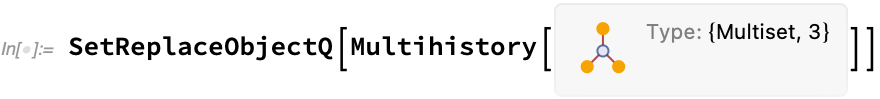
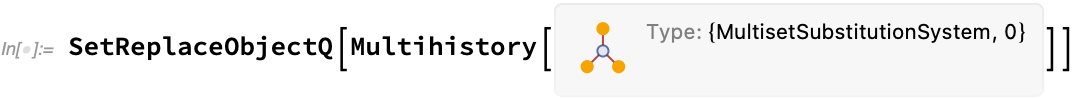
Update type system docs.

Changed region(s): [[0.0, 0.2121, 1.0, 0.7576]]

diff --git a/Documentation/TypeSystem/README.md b/Documentation/TypeSystem/README.md
@@ -3,17 +3,15 @@
 The basis of *SetReplace* is the type system used for [`Multihistory`](Multihistory.md) objects describing evolutions of
 various computational systems.
 
-We have just started working on this new system as part of *SetReplace 0.4 Yellowstone*, and no specific types have been
-implemented yet.
-
 `Multihistory` objects can be created with functions such as
 [`GenerateMultihistory`](/Documentation/SymbolsAndFunctions/Generators/GenerateMultihistory.md).
 
-These functions will be able to take various computational systems as an argument, such as `MultisetSubstitutionSystem`,
-`HypergraphSubstitutionSystem` and `StringSubstitutionSystem`.
+These functions take various [computational systems](/Documentation/SymbolsAndFunctions/Systems/README.md) such as
+[`MultisetSubstitutionSystem`](/Documentation/SymbolsAndFunctions/Systems/MultisetSubstitutionSystem.md) as an argument.
 
 We will also have [properties]($SetReplaceProperties.md) implemented for some of these objects, e.g., `TokenEventGraph`.
-These properties can transparently convert objects to the [type]($SetReplaceTypes.md) required to evaluate them.
+These properties can transparently convert objects to the [type](/Documentation/SymbolsAndFunctions/Types/README.md)
+required to evaluate them.
 
 Most of the time, it is sufficient to rely on these automatic conversions. However, sometimes it might be useful to
 convert an object to a different type manually for persistence or optimization, in which case one can use the

diff --git a/Documentation/TypeSystem/Multihistory.md b/Documentation/TypeSystem/Multihistory.md
@@ -2,7 +2,21 @@
 
 # Multihistory
 
-**`Multihistory`** represents an evaluation history of a computational system.
+**`Multihistory`** is a head used for [types](/Documentation/SymbolsAndFunctions/Types/README.md) representing an
+evaluation history of a computational system.
 
-It is part of the new *SetReplace* [type system](README.md) which we are actively working on. We have not implemented
-any systems or properties yet, so it's not currently possible to create or use any `Multihistory` objects.
+For example, for
+a [`MultisetSubstitutionSystem`](/Documentation/SymbolsAndFunctions/Systems/MultisetSubstitutionSystem.md),
+
+```wl
+In[] := GenerateMultihistory[MultisetSubstitutionSystem[{a_, b_} :> {a + b}],
+                             {},
+                             None,
+                             {"InputCount", "SortedInputExpressions", "UnsortedInputExpressions", "RuleIndex"},
+                             {"MaxEvents" -> 10}] @ {1, 2, 3}
+```
+
+<img src="/Documentation/Images/MultisetMultihistory.png" width="472.2">
+
+You will be able to use `properties`[$SetReplaceProperties.md] to extract information about multihistories, but we have
+not implemented any properties yet.

diff --git a/Documentation/TypeSystem/SetReplaceTypeConvert.md b/Documentation/TypeSystem/SetReplaceTypeConvert.md
@@ -2,12 +2,15 @@
 
 # SetReplaceTypeConvert
 
-**`SetReplaceTypeConvert`** allows one to convert one type (of, e.g., [`Multihistory`](Multihistory.md)) into another:
+**`SetReplaceTypeConvert`** allows one to convert one [type](/Documentation/SymbolsAndFunctions/Types/README.md) (of,
+e.g., [`Multihistory`](Multihistory.md)) into another:
 
 ```wl
 SetReplaceTypeConvert[newType][object]
 ```
 
-It can be used for optimization or to explicitly serialize an object that is, e.g., attached to a C++ instance.
+For example, one can convert a [`MultisetSubstitutionSystem`](/Documentation/SymbolsAndFunctions/Systems/README.md)
+[multihistory](Multihistory.md) to a legacy
+[`WolframModelEvolutionObject`](/Documentation/SymbolsAndFunctions/WolframModelAndWolframModelEvolutionObject/WolframModelAndWolframModelEvolutionObject.md):
 
-However, we have not implemented any types yet, so it's impossible to use this yet.
+<img src="/Documentation/Images/MultihistoryToWolframModelEvolutionObject.png" width="575.4">

diff --git a/Documentation/TypeSystem/$SetReplaceTypeGraph.md b/Documentation/TypeSystem/$SetReplaceTypeGraph.md
@@ -3,14 +3,14 @@
 # $SetReplaceTypeGraph
 
 **`$SetReplaceTypeGraph`** gives the [`Graph`](https://reference.wolfram.com/language/ref/Graph.html) showing
-[types]($SetReplaceTypes.md) and [properties]($SetReplaceProperties.md) defined in *SetReplace* (including internal
-ones) and possible computation paths between them:
+[types](/Documentation/SymbolsAndFunctions/Types/README.md) and [properties]($SetReplaceProperties.md) defined in
+*SetReplace* (including internal ones) and possible computation paths between them:
 
 ```wl
 In[] := $SetReplaceTypeGraph
 ```
 
-<img src="/Documentation/Images/$SetReplaceTypeGraph.png" width="478.2">
+<img src="/Documentation/Images/$SetReplaceTypeGraph.png" width="660.6">
 
 It is a [`Graph`](https://reference.wolfram.com/language/ref/Graph.html) representation of a directed hypergraph with
 types and properties as vertices and implementations of translations and properties as edges.

diff --git a/Documentation/TypeSystem/SetReplaceObjectType.md b/Documentation/TypeSystem/SetReplaceObjectType.md
@@ -2,10 +2,11 @@
 
 # SetReplaceObjectType
 
-**`SetReplaceObjectType`** yields the type of an object. Note that the type specification usually contains its version:
+**`SetReplaceObjectType`** yields [the type](/Documentation/SymbolsAndFunctions/Types/README.md) of an object. Note that
+the type specification usually contains its version:
 
-<img src="/Documentation/Images/SetReplaceObjectTypeOfMultihistory.png" width="555.6">
+<img src="/Documentation/Images/SetReplaceObjectTypeOfMultihistory.png" width="673.2">
 
 ```wl
-Out[] = {"Multiset", 3}
+Out[] = {MultisetSubstitutionSystem, 0}
 ```

diff --git a/Documentation/TypeSystem/SetReplaceObjectQ.md b/Documentation/TypeSystem/SetReplaceObjectQ.md
@@ -5,7 +5,7 @@
 **`SetReplaceObjectQ`** yields [`True`](https://reference.wolfram.com/language/ref/True.html) for *SetReplace* objects
 and [`False`](https://reference.wolfram.com/language/ref/False.html) otherwise:
 
-<img src="/Documentation/Images/SetReplaceObjectQOfMultihistory.png" width="528.0">
+<img src="/Documentation/Images/SetReplaceObjectQOfMultihistory.png" width="645.6">
 
 ```wl
 Out[] = True

diff --git a/Documentation/TypeSystem/SetReplaceType.md b/Documentation/TypeSystem/SetReplaceType.md
@@ -2,6 +2,7 @@
 
 # SetReplaceType
 
-**`SetReplaceType`** represents a *SetReplace* type. It has the type specification as its single argument.
+**`SetReplaceType`** represents a *SetReplace* [type](/Documentation/SymbolsAndFunctions/Types/README.md). It has the
+type specification as its single argument.
 
 It is used in vertex names of [`$SetReplaceTypeGraph`]($SetReplaceTypeGraph.md).

diff --git a/Documentation/TypeSystem/$SetReplaceTypes.md b/Documentation/TypeSystem/$SetReplaceTypes.md
@@ -6,5 +6,5 @@
 
 ```wl
 In[] := $SetReplaceTypes
-Out[] = {}
+Out[] = {{MultisetSubstitutionSystem, 0}, {WolframModelEvolutionObject, 2}}
 ```
